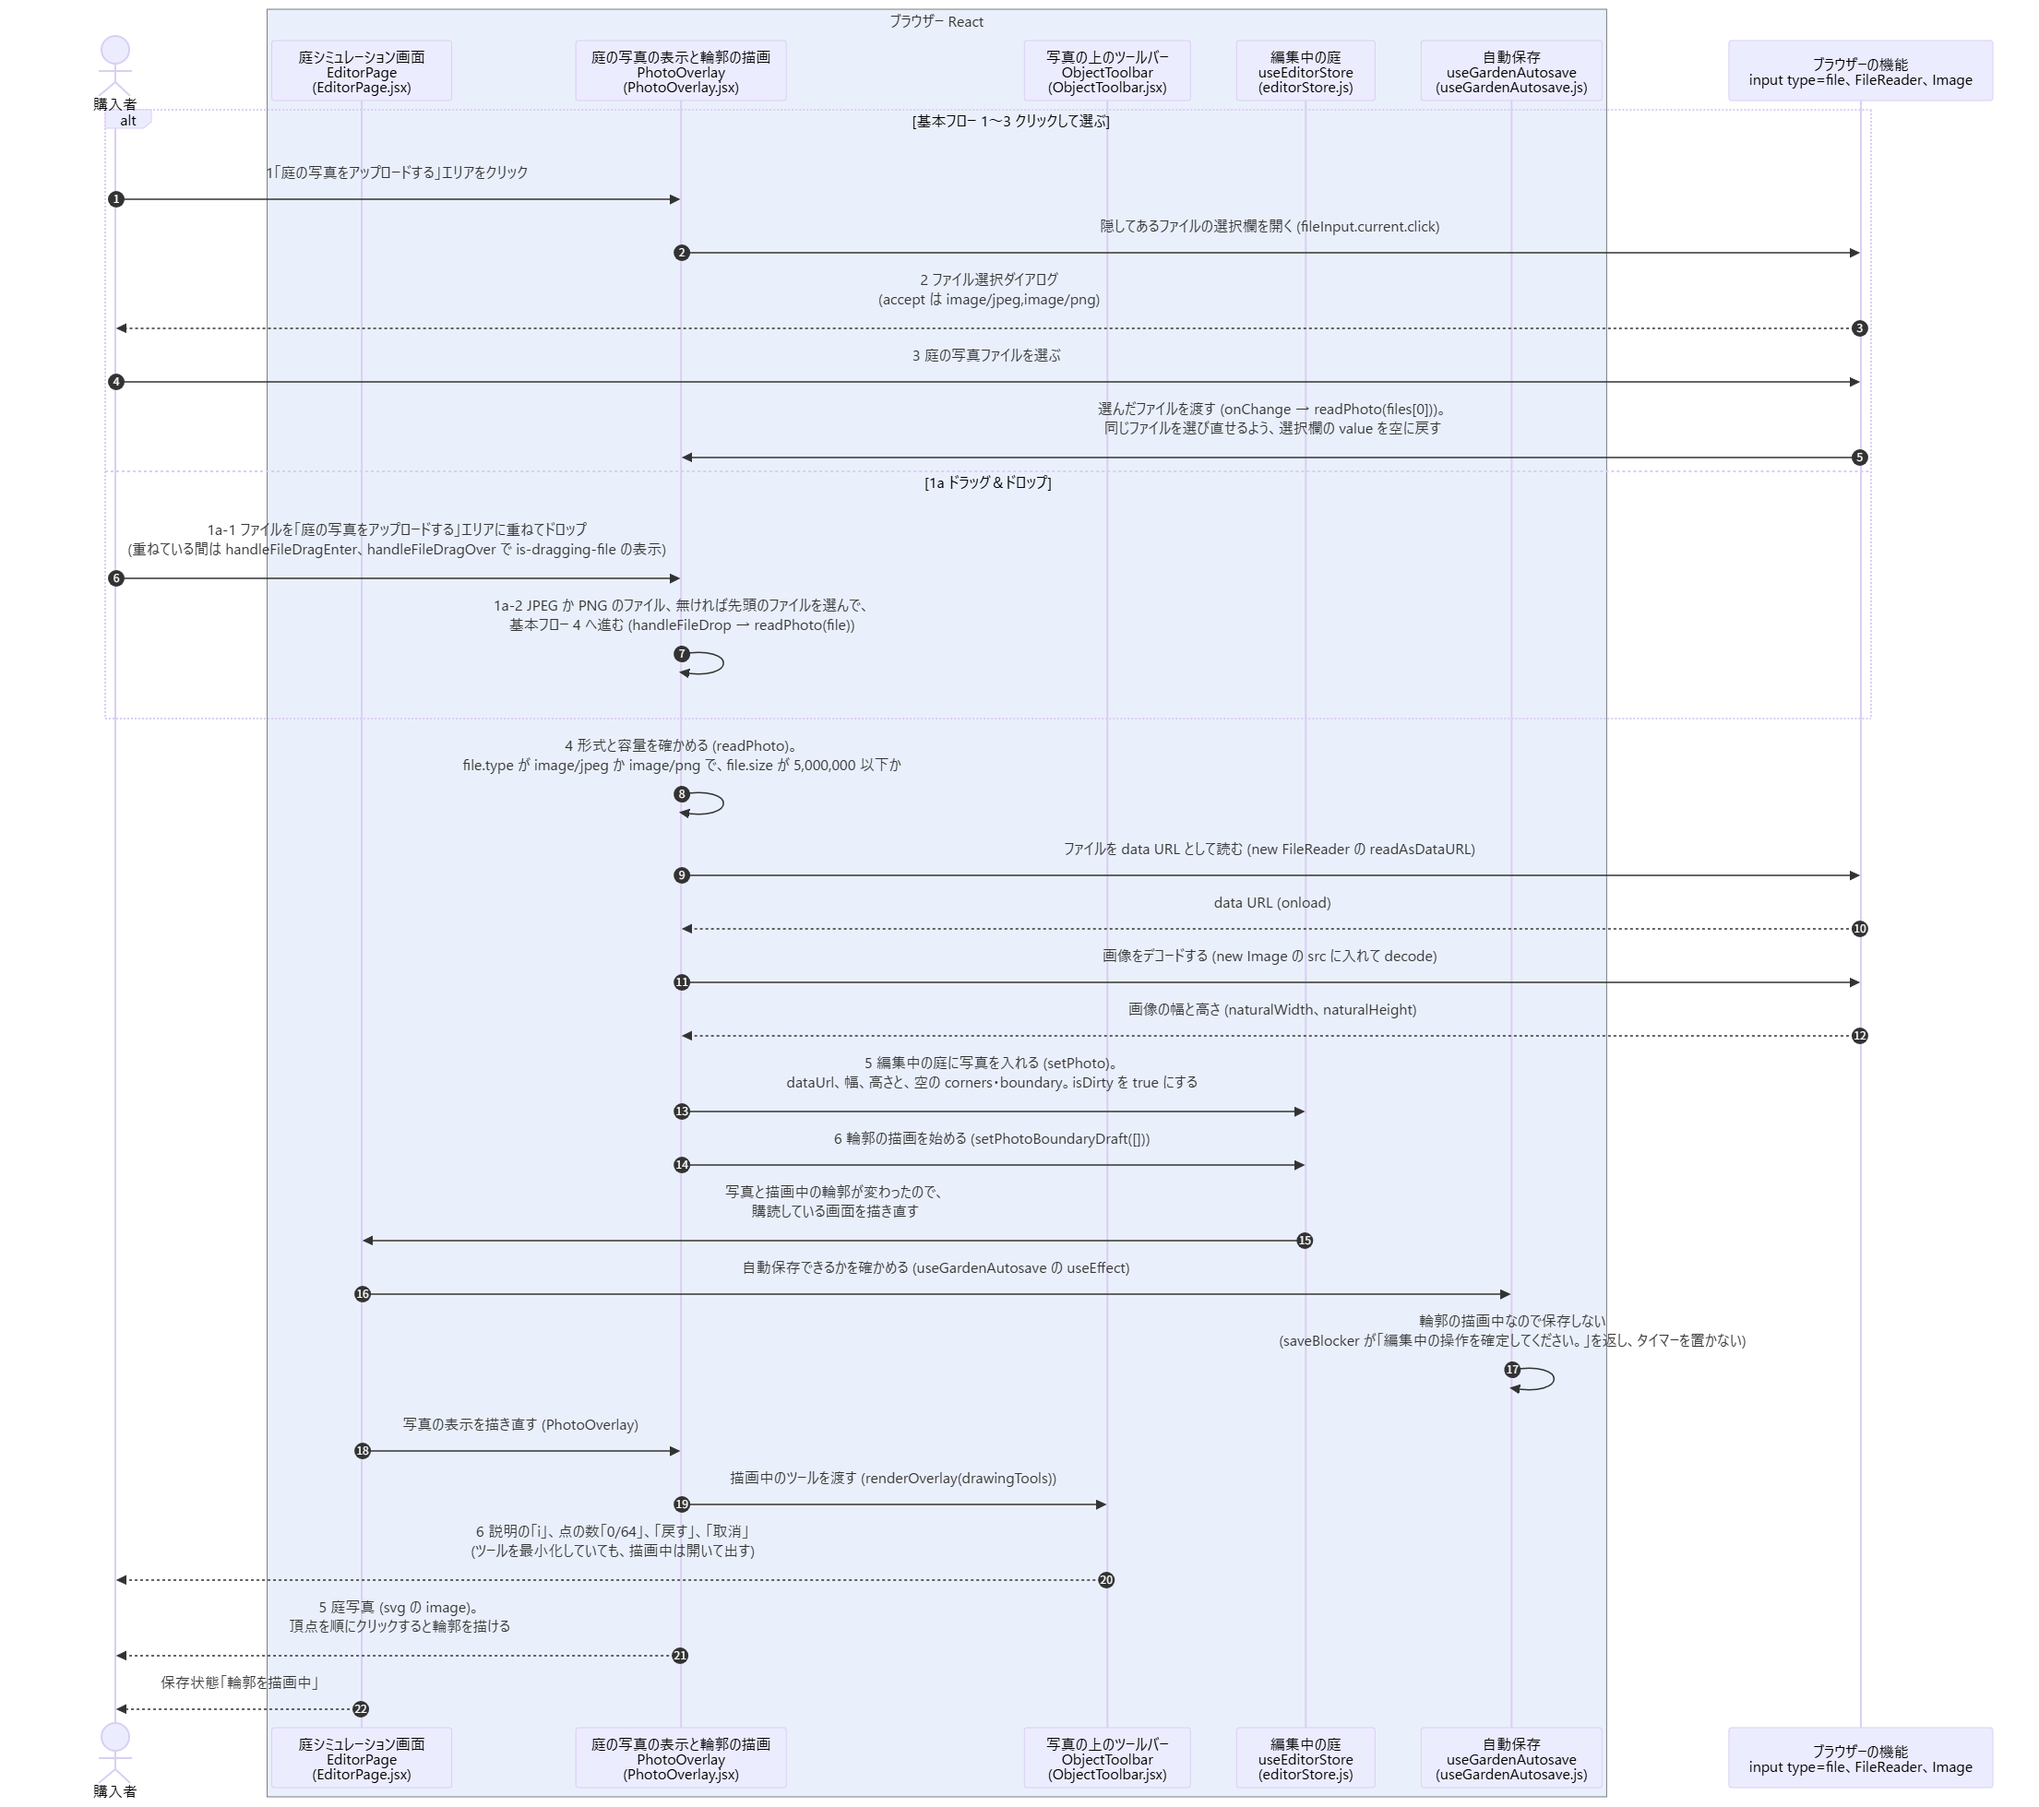
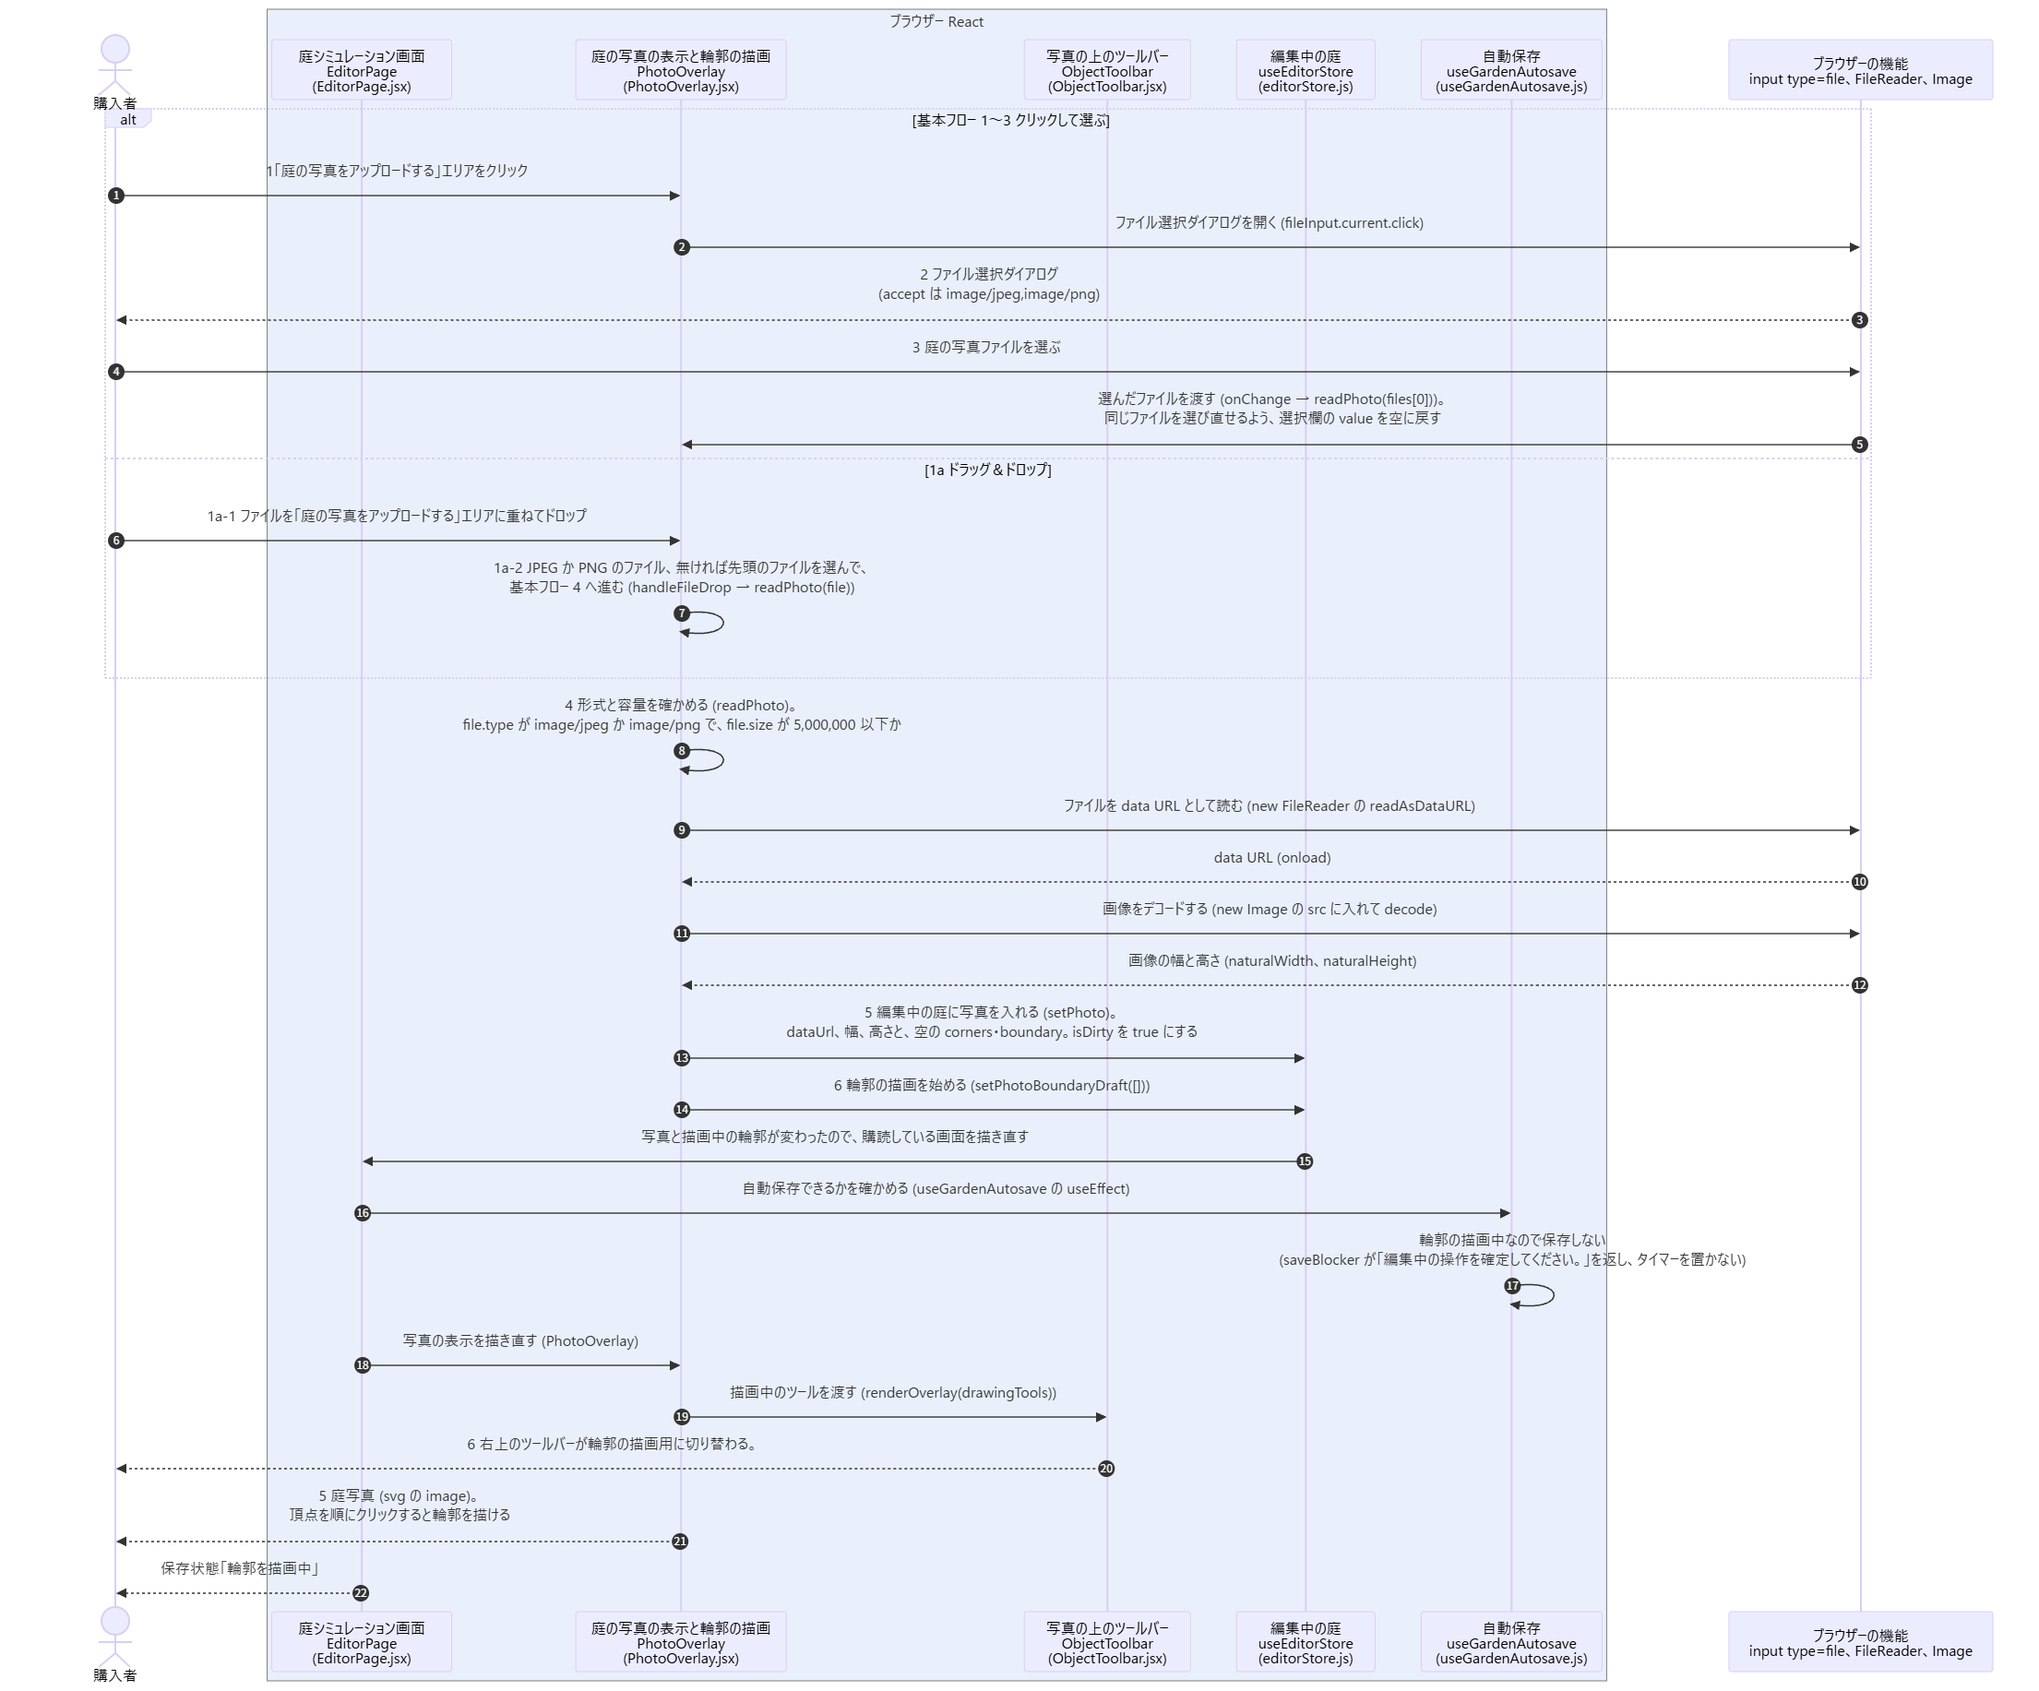
「庭の写真をアップロードする」シーケンス図を修正

diff --git a/シーケンス図/kusakari-canvas/UC-02_庭の写真をアップロードする.md b/シーケンス図/kusakari-canvas/UC-02_庭の写真をアップロードする.md
@@ -15,12 +15,12 @@ sequenceDiagram
 
     alt 基本フロー 1〜3 クリックして選ぶ
         User->>Overlay: 1「庭の写真をアップロードする」エリアをクリック
-        Overlay->>Dom: 隠してあるファイルの選択欄を開く (fileInput.current.click)
+        Overlay->>Dom: ファイル選択ダイアログを開く (fileInput.current.click)
         Dom-->>User: 2 ファイル選択ダイアログ<br/>(accept は image/jpeg,image/png)
         User->>Dom: 3 庭の写真ファイルを選ぶ
         Dom->>Overlay: 選んだファイルを渡す (onChange → readPhoto(files[0]))。<br/>同じファイルを選び直せるよう、選択欄の value を空に戻す
     else 1a ドラッグ＆ドロップ
-        User->>Overlay: 1a-1 ファイルを「庭の写真をアップロードする」エリアに重ねてドロップ<br/>(重ねている間は handleFileDragEnter、handleFileDragOver で is-dragging-file の表示)
+        User->>Overlay: 1a-1 ファイルを「庭の写真をアップロードする」エリアに重ねてドロップ
         Overlay->>Overlay: 1a-2 JPEG か PNG のファイル、無ければ先頭のファイルを選んで、<br/>基本フロー 4 へ進む (handleFileDrop → readPhoto(file))
     end
     Overlay->>Overlay: 4 形式と容量を確かめる (readPhoto)。<br/>file.type が image/jpeg か image/png で、file.size が 5,000,000 以下か
@@ -30,12 +30,12 @@ sequenceDiagram
     Dom-->>Overlay: 画像の幅と高さ (naturalWidth、naturalHeight)
     Overlay->>Store: 5 編集中の庭に写真を入れる (setPhoto)。<br/>dataUrl、幅、高さと、空の corners・boundary。isDirty を true にする
     Overlay->>Store: 6 輪郭の描画を始める (setPhotoBoundaryDraft([]))
-    Store->>Editor: 写真と描画中の輪郭が変わったので、<br/>購読している画面を描き直す
+    Store->>Editor: 写真と描画中の輪郭が変わったので、購読している画面を描き直す
     Editor->>Save: 自動保存できるかを確かめる (useGardenAutosave の useEffect)
     Save->>Save: 輪郭の描画中なので保存しない<br/>(saveBlocker が「編集中の操作を確定してください。」を返し、タイマーを置かない)
     Editor->>Overlay: 写真の表示を描き直す (PhotoOverlay)
     Overlay->>Toolbar: 描画中のツールを渡す (renderOverlay(drawingTools))
-    Toolbar-->>User: 6 説明の「i」、点の数「0/64」、「戻す」、「取消」<br/>(ツールを最小化していても、描画中は開いて出す)
+    Toolbar-->>User: 6 右上のツールバーが輪郭の描画用に切り替わる。
     Overlay-->>User: 5 庭写真 (svg の image)。<br/>頂点を順にクリックすると輪郭を描ける
     Editor-->>User: 保存状態「輪郭を描画中」
 ```
